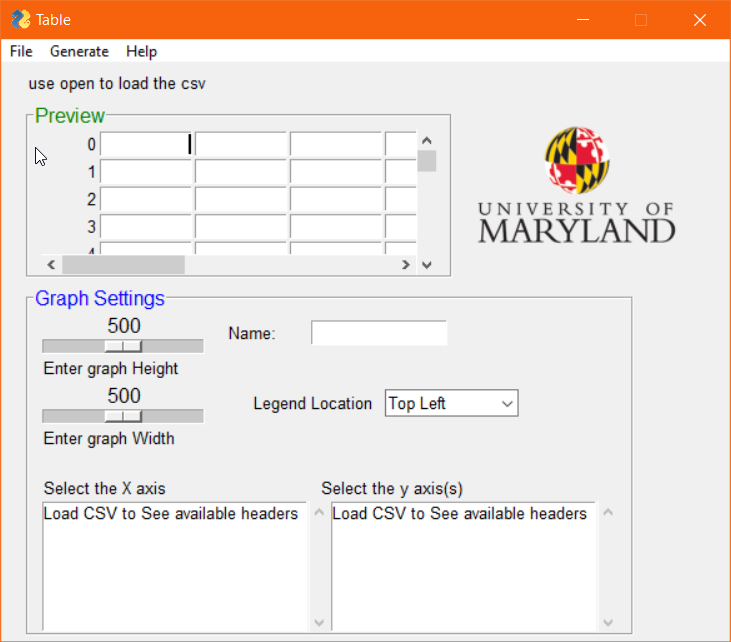
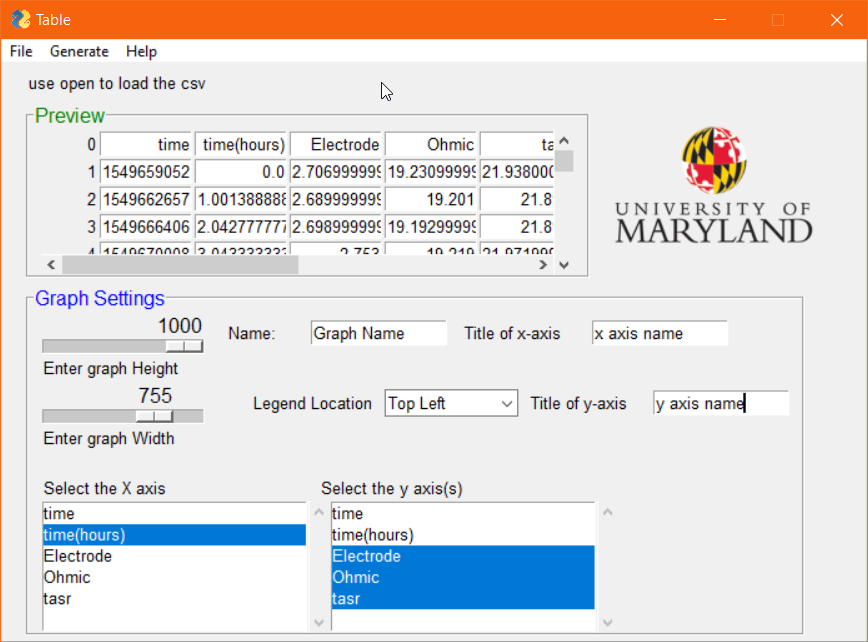
Reset Function and Label names

diff --git a/Grapher.py b/Grapher.py
@@ -242,6 +242,9 @@ def Main():
                 p.legend.location ="bottom_left" 
             #show the graph
             show(p)
+
+        #if the user wants to reset the program
+        #FIXME this does not work. It opens another window and the program crashes
         elif event == "Reset":
                 Main()
         # if a valid table location entered, change that location's value
